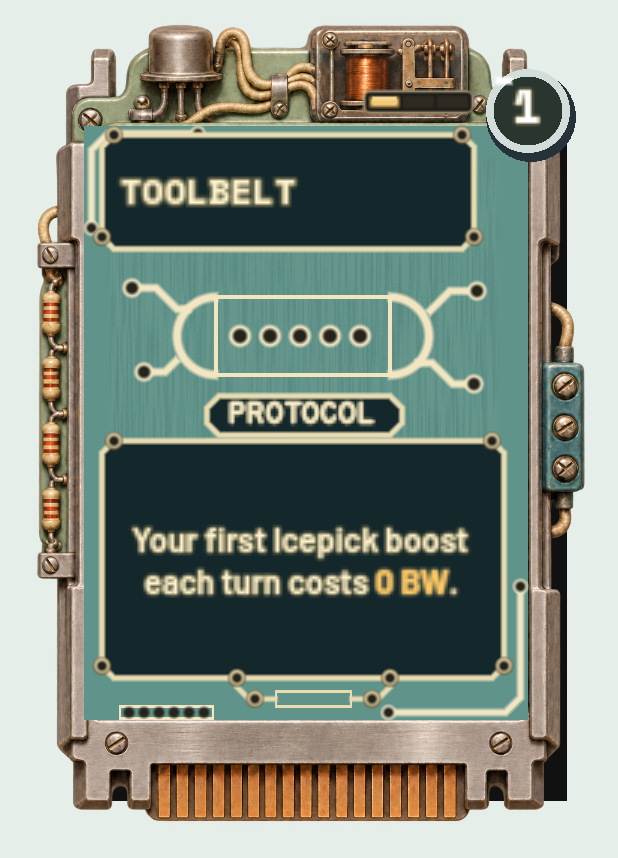
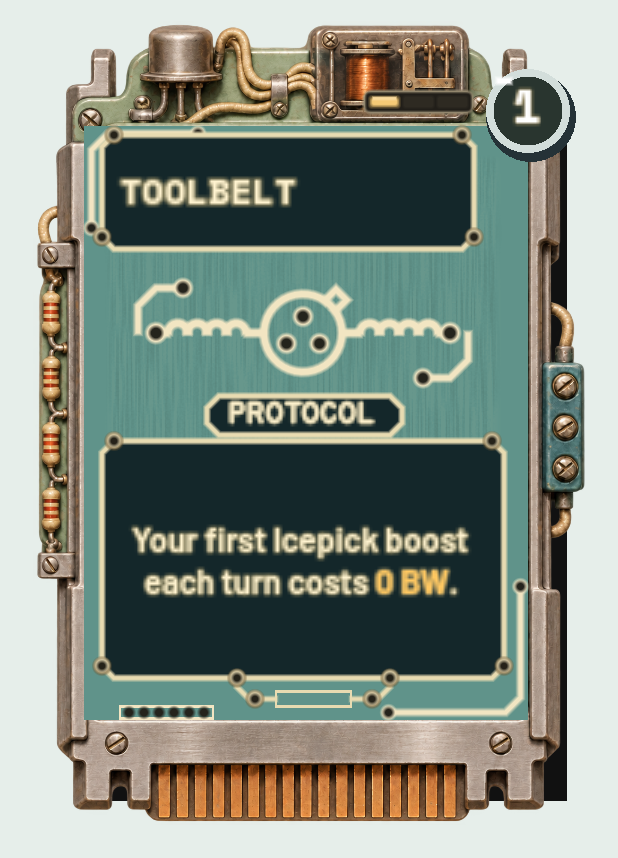
CARDS-002: circuit stencil per Rustler type (review branch only)
Designer direction: BLOATWARE keeps its corporate fonts; each Rustler
type gets its own stencil. SCRIPT edge connector, PROGRAM DIP chip,
PROTOCOL TO-5 can between two coils. Fixture asserts stencil per type.
Preview 0 failures at 3x and 1x; rules 361/0, ADP 17/0, SIGNAL/CARBON 671/0.

Claude-Session: https://claude.ai/code/session_019hKEHwHgBfGqbFMUM3xZXY

Changed region(s): [[0.1845, 0.303, 0.7994, 0.4545]]

diff --git a/docs/visual/fixtures/cards-002/README.md b/docs/visual/fixtures/cards-002/README.md
@@ -4,7 +4,7 @@
 
 **Status:** Design review, 2026-11-19. PROPOSED except where a line says designer direction.
 
-![All four card types with the glow treatment and the deeper green PROGRAM, plus rarities, the longest rules text and cached cards](iterations/PANOPTICON_PCB_Glow_Four_Types_Deep_Green.jpg)
+![All four card types with the glow treatment and the deeper green PROGRAM, plus rarities, the longest rules text and cached cards](iterations/PANOPTICON_PCB_Glow_Type_Stencils.jpg)
 
 ## Current review version: four-type glow treatment
 
@@ -23,7 +23,8 @@
 - **Dark solder-mask panels** sit behind the title, the type plate and the rules. Each mask is a deep tint of its own board colour. No text sits on the bare board.
 - **Glowing ivory text** `#FFF3D0` has a soft halo. Numbers print in Barlow Bold phosphor amber `#FFC861`. On every mask, ivory is at least 13.4:1 and amber at least 9.6:1.
 - **Rustler type faces:** Chrome Deco bold for titles, Routed Gothic for the type plate, Barlow SemiBold and Bold for the rules.
-- **BLOATWARE** keeps the HALCYON corporate fonts for its facade. Its footer line ("We just want to stay in touch.") sits in dimmer ivory at the bottom of its rules panel.
+- **Circuit stencil per Rustler type** (designer direction): SCRIPT has an edge-connector footprint, PROGRAM a DIP chip with pads on both sides and its orientation notch, and PROTOCOL a TO-5 transistor can between two coil inductors.
+- **BLOATWARE** keeps the HALCYON corporate fonts for its facade (designer direction). Its footer line ("We just want to stay in touch.") sits in dimmer ivory at the bottom of its rules panel.
 - **Layout:** each panel is placed from the type's own board area. The rules panels are 84 px tall for SCRIPT, 80 for PROGRAM, 79 for PROTOCOL and 84 for BLOATWARE, with an 11 px ceiling and a 9 px floor. All 444 card texts (every card, AMP 0–3) fit their own type's panel.
 - **Rarity:** a recessed lamp in each Rustler shell's top exterior, with 1, 2 or 3 lit cells (amber, green or violet) for Common, Uncommon and Rare. On PROTOCOL it sits on the relay's lower rail (designer accepted). Starters have no rarity (designer direction), BLOATWARE has no lamp, and no printed rarity remains on any card.
 - **Cached** (designer direction): never printed on the card. A cached card shows one solid icy-cyan `#7FE3F0` glow just inside its board edge, the same whether it is temporary or held until played. The glow draws beneath the BW cost and every text panel. The hover tooltip reads `CACHED`, or `CACHED (temporary)` for a timed cache, which the designer kept for now.
@@ -38,8 +39,7 @@ The captures are at 3× hand size. [`captures/hand-size/`](captures/hand-size/) 
 
 **Interpretations to confirm**
 - The mask tints for each type.
-- The same circuit stencil appears on every Rustler type.
-- BLOATWARE keeps its corporate fonts.
+- The footprint chosen for each stencil.
 
 ## Design sequence
 
@@ -59,6 +59,7 @@ The captures are at 3× hand size. [`captures/hand-size/`](captures/hand-size/) 
 14. [Single cache state: one solid cyan glow, no padlock](iterations/PANOPTICON_Mustard_PCB_05_Cache_Single_Glow.jpg)
 15. [All four card types with the glow treatment, mustard on SCRIPT](iterations/PANOPTICON_PCB_Glow_Four_Types.jpg)
 16. [Deeper green PROGRAM](iterations/PANOPTICON_PCB_Glow_Four_Types_Deep_Green.jpg)
+17. [A circuit stencil per Rustler type](iterations/PANOPTICON_PCB_Glow_Type_Stencils.jpg)
 
 ## Reproduce the latest preview
 
@@ -83,6 +84,7 @@ PREVIEW_SCALE=1 godot --audio-driver Dummy --rendering-driver opengl3 --path god
 The capture fixture needs a display. For every captured card it checks:
 
 - the rarity lamp's tier and 1/2/3 cells, and that no printed rarity remains;
+- that each Rustler card carries its own type's circuit stencil, and that BLOATWARE carries none;
 - the rules panel's per-type rect, its mask colour, the 9 px floor, centring, fit and bold numbers;
 - that the title panel and type plate sit on the type's mask, with glowing ivory text and no plated holes touching the plate's text;
 - that every ink is at least 4.5:1 on its mask;

diff --git a/docs/REDLINE_DEVELOPMENT_LOG.md b/docs/REDLINE_DEVELOPMENT_LOG.md
@@ -4,14 +4,6 @@
 
 **LOG-001 (2026-11-16):** entries from 2026-11-08 to 2026-11-14 are in `REDLINE_DEVELOPMENT_LOG_ARCHIVE.md`, unchanged. Keep this file under about 60 KB (HANDOFF, "How we work" 6).
 
-## 2026-11-17 — RUSTLER-LOOK-001: two Rustler styles kept on purpose (Claude)
-
-**Designer decision:** "B Each corp will have a different look. The HUD will probably change in the near future, but I want to keep it this way for now." The CARDS-001 hardware cards and the zine HUD/tags/END TURN/NUL/REM notes stay as they are; this is recorded as a deliberate exception to Visual Language Rule 1. Added RUSTLER-LOOK-001 to the master design doc and an amendment note under Rule 1 in `REDLINE_VISUAL_LANGUAGE.md`. **Code changes:** none.
-
-## 2026-11-17 — VISUAL-APPROVALS-002: prototype art and working values approved (Claude)
-
-**Designer decision:** "Okay, all those changes that you listed are all approved." Covers the CHROME-001 art review, CARDS-001 as a whole, and the VIS-001 details (hand size, lethal threshold, undrawn ICE silhouettes and wording, motion timings, Cracking after a strike). Recorded as VISUAL-APPROVALS-002 in the master design doc with the approved values. HANDOFF: the two matching *Waiting* rows moved to *Done*; the CARDS-001, CHROME-001 and VIS-001 *Built* rows note art approval with playtest still pending. The rules questions in *Waiting* are not covered. **Code changes:** none.
-
 ## 2026-11-17 — CHROME-001 / CARDS-001 / MAIN-001 follow-up (Codex)
 
 Refreshed ten CHROME-001 PNGs from `main` with Godot 4.3. All five capture stages passed. Amber numbers on brown SCRIPT faces are harder to read. Synced status and handoff and documented nine assets, including oxide-red Whirlwind Bloatware. Exact prompts/model IDs and the corrected concept PNG were unavailable. No Windows export. LOG-001 moved the oldest whole live entry to the archive unchanged.
@@ -443,3 +435,17 @@ LOG-001 moved the oldest dated entry to the archive unchanged: 2026-11-17 — VI
 LOG-001 moved the oldest dated entry to the archive unchanged: 2026-11-17 — MAIN-001: HANDOFF points to main (Claude).
 
 LOG-001 moved the oldest dated entry to the archive unchanged: 2026-11-17 — MAIN-001: Windows export runs on main (Claude).
+
+## 2026-11-19 — CARDS-002 circuit stencil per Rustler type (Claude)
+
+**Designer direction:** "Bloat should keep its corporate font. Each rustler type should get its own circuit stencil."
+
+**Changed (preview patch, `review/cards-002` only):** `MustardStencil` now draws one footprint per type: SCRIPT an edge connector (unchanged), PROGRAM a DIP chip with twelve pads and an orientation notch, and PROTOCOL a TO-5 can with three plated leads between two coil inductors. Traces end in plated vias. BLOATWARE keeps its corporate fonts and Whirlwind art. The fixture asserts each Rustler card's stencil type and position, and that BLOATWARE carries no stencil.
+
+**Validation:** preview fixture 0 failures at 3× and 1×; rules 361/0, ADP 17/0, SIGNAL/CARBON 671/0 with the patch applied.
+
+**Interpretations to confirm:** the footprint chosen for each type.
+
+LOG-001 moved the oldest dated entry to the archive unchanged: 2026-11-17 — RUSTLER-LOOK-001: two Rustler styles kept on purpose (Claude).
+
+LOG-001 moved the oldest dated entry to the archive unchanged: 2026-11-17 — VISUAL-APPROVALS-002: prototype art and working values approved (Claude).

diff --git a/docs/HANDOFF.md b/docs/HANDOFF.md
@@ -123,7 +123,7 @@ Per-step results and interpretations: [HALCYON_PLAYTEST3_IMPLEMENTATION.md](HALC
 | ID | Question | Where it came from | Status |
 |---|---|---|---|
 | NAME-002 (PROPOSED) | **Rename VITAE to SPARK?** Designer: VITAE "seems so out of place in this setting"; SPARK "works", to be reviewed later "to see how much it fits before committing it". Why SPARK: the stat is not health but how much of *you* the machine can't have. Every consciousness has a First Signal; the spark is that signal in you, and what the ’Pelago harvests for the synchronization (SIGNAL-001, ARCH-001). Hits dim it; at 0 your spark is taken. Period-true (radio spark gap). Samples: *SPARK 12 / 30*, *PULP 5 · SPARK −5*, NUL/REM "keep your spark low and your head lower." Considered and set aside: NERVE, TICKER, GRIT, PULSE (too close to PULP); runners-up STATIC, SPINE, INK. Optional extra: corporations name the same number in flavour copy only (HALCYON "Comfort Level", IRONWATCH "Wellness Index", LUCIDA "Restfulness"). Scope if approved: about 510 mentions in 21 docs, including LOCKED master entries (Vitae distinction, HUB-002 PATCH UP), and about 80 in code/data; Claude Code renames on screen with a guard test that VITAE never appears; no rule changes. | Designer, 2026-11-18 | WAITING (review later) |
-| CARDS-002 PCB glow cartridges | Review-only on `review/cards-002`. Latest: the glow treatment on all four card types, with mustard SCRIPT, deeper green `#5A8048` PROGRAM (designer), blue-green PROTOCOL and corporate oxide-red BLOATWARE; dark mask panels per type; ivory text with amber numbers; 1/2/3 rarity lamps (none on starters, designer; PROTOCOL lamp on the relay rail, designer); a single cyan cache glow. **Interpretations to confirm:** mask tints, the same stencil on every Rustler type, corporate fonts kept on BLOATWARE. | [Review archive](visual/fixtures/cards-002/README.md) | **WAITING** for designer review; PROPOSED |
+| CARDS-002 PCB glow cartridges | Review-only on `review/cards-002`. Latest: the glow treatment on all four card types, with mustard SCRIPT, deeper green `#5A8048` PROGRAM (designer), blue-green PROTOCOL and corporate oxide-red BLOATWARE; dark mask panels per type; ivory text with amber numbers; 1/2/3 rarity lamps (none on starters, designer; PROTOCOL lamp on the relay rail, designer); a single cyan cache glow. a circuit stencil per Rustler type (designer); BLOATWARE corporate fonts (designer). **Interpretations to confirm:** mask tints, stencil footprints. | [Review archive](visual/fixtures/cards-002/README.md) | **WAITING** for designer review; PROPOSED |
 | ARCH-NAMES-001 names | The nine island names are working copy: the designer will check them against real care homes later. | ARCH §4.0 | WAITING |
 
 ---

diff --git a/docs/REDLINE_MASTER_DESIGN.md b/docs/REDLINE_MASTER_DESIGN.md
@@ -108,6 +108,8 @@ Shared silkscreen `#F2E5C2` and contact holes `#24231C` stay outside names, illu
 
 **CARDS-002 four-type decisions (2026-11-19, review branch only; designer direction).** Designer: "Yes starters have no rarity. Go with deeper green. Protocol fix works." Starter cards carry no rarity mark. PROGRAM's board changes from olive to deeper green `#5A8048` with mask `#172312` (hue 101°, 58° from mustard). PROTOCOL's rarity lamp stays on the relay's lower rail.
 
+**CARDS-002 stencils and corporate fonts (2026-11-19, review branch only; designer direction).** Designer: "Bloat should keep its corporate font. Each rustler type should get its own circuit stencil." BLOATWARE keeps its corporate fonts. *Stencils (PROPOSED footprints):* SCRIPT has an edge connector, PROGRAM a DIP chip, and PROTOCOL a TO-5 can between two coil inductors.
+
 **VISUAL-APPROVALS-002 — Prototype art and working values approved (APPROVED, 2026-11-17).** The designer approved every item below, which had been waiting for review. Designer: "Okay, all those changes that you listed are all approved." Numbers stay tunable presentation values; approval means build from them, not that they can never change. Sources: the 2026-11-17 VIS-001, CHROME-001 and CARDS-001 entries in `REDLINE_DEVELOPMENT_LOG.md`.
 
 - **CHROME-001 (HALCYON encounter), commits 15ae99e–4c2135e:** the generated calm and hostile atrium art and the CAPTCHA/AUTO-RENEW appliance shells; six shared collage illustrations assigned by card role (no per-card art yet); a 20% reveal of the hostile atrium during Cracking; pearl-enamel ICE plaques (pearl `#EDF4F0`, slate `#20343B`, teal `#165B55`) that stay clean in Mask off; the layered silver rim, small Deco fan and placeholder HALCYON wordmark on mascots; mascot carriers at 82% with two ICE and 70% with three; a 2.5-second break confirmation in a header at the top of the screen.

diff --git a/docs/REDLINE_DEVELOPMENT_LOG_ARCHIVE.md b/docs/REDLINE_DEVELOPMENT_LOG_ARCHIVE.md
@@ -1941,3 +1941,11 @@ GENERALIST also has two stalls, counted separately from deaths. Mean end decks G
 ## 2026-11-17 — MAIN-001: Windows export runs on main (Claude)
 
 **Designer instruction:** make the Windows export run from `main`. In `.github/workflows/godot-validation.yml`, the three Windows steps (install template, export, upload) now run on pushes to `main` instead of `codex/halcyon-playtest-stabilization` / `codex/zeroed-tumble-2026-11-16`. Validation, rules and screenshot steps are unchanged; the workflow still triggers only on changes under `godot/` or to the workflow file. HANDOFF's deferred Windows line updated to match.
+
+## 2026-11-17 — RUSTLER-LOOK-001: two Rustler styles kept on purpose (Claude)
+
+**Designer decision:** "B Each corp will have a different look. The HUD will probably change in the near future, but I want to keep it this way for now." The CARDS-001 hardware cards and the zine HUD/tags/END TURN/NUL/REM notes stay as they are; this is recorded as a deliberate exception to Visual Language Rule 1. Added RUSTLER-LOOK-001 to the master design doc and an amendment note under Rule 1 in `REDLINE_VISUAL_LANGUAGE.md`. **Code changes:** none.
+
+## 2026-11-17 — VISUAL-APPROVALS-002: prototype art and working values approved (Claude)
+
+**Designer decision:** "Okay, all those changes that you listed are all approved." Covers the CHROME-001 art review, CARDS-001 as a whole, and the VIS-001 details (hand size, lethal threshold, undrawn ICE silhouettes and wording, motion timings, Cracking after a strike). Recorded as VISUAL-APPROVALS-002 in the master design doc with the approved values. HANDOFF: the two matching *Waiting* rows moved to *Done*; the CARDS-001, CHROME-001 and VIS-001 *Built* rows note art approval with playtest still pending. The rules questions in *Waiting* are not covered. **Code changes:** none.
